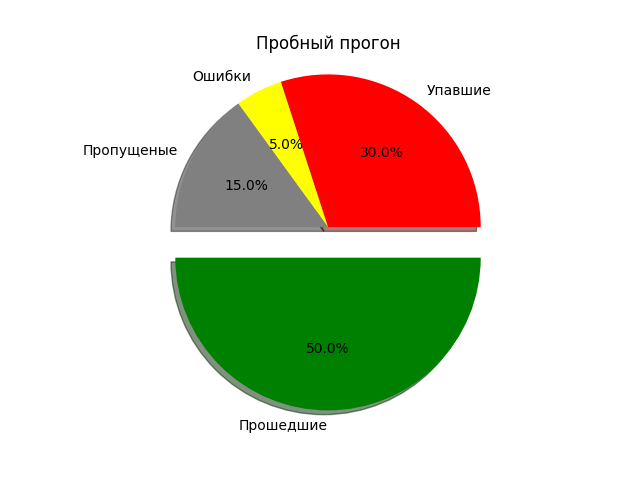
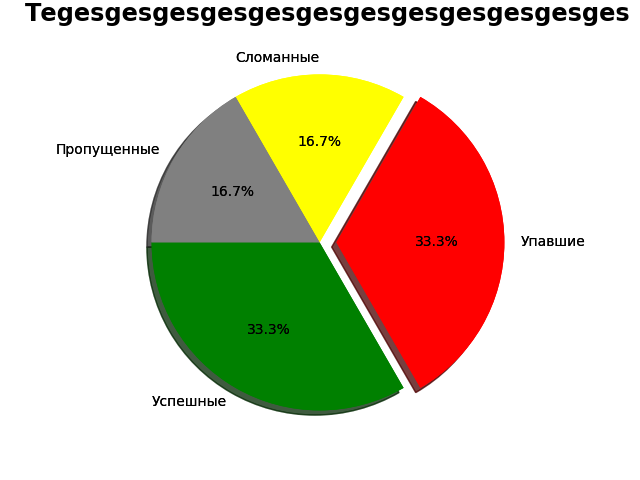
bdbdbdbr

diff --git a/allure_bot/allure_bot.py b/allure_bot/allure_bot.py
@@ -1,9 +1,10 @@
-import telebot
-from telebot import apihelper
-from telebot.types import InputMediaPhoto
-from matplotlib import pyplot as plt
 import json
 import os
+
+import telebot
+from matplotlib import pyplot as plt
+from telebot import apihelper
+from telebot.types import InputMediaPhoto
 
 
 class CreateAllure:
@@ -43,11 +44,12 @@ class CreateAllure:
         self.token = self.data_config()['token']
         self.chat = self.data_config()['chat']
         self.reportLink = self.data_config()['reportLink']
-        labels = ['Прошедшие', 'Упавшие', 'Ошибки', 'Пропущеные']
+        self.environment = self.data_config()['environment']
+        labels = ['Успешные', 'Упавшие', 'Сломанные', 'Пропущенные']
         values = [self.passed, self.failed, self.broken, self.skipped]
         colors = ['green', 'red', 'yellow', 'grey']
-        explode = [0.2, 0, 0, 0]
-        plt.title(f'{self.name}')
+        explode = [0.0, 0.1, 0.0, 0.0]
+        plt.title(f'{self.name}\n', fontdict={'fontweight': 600, 'fontsize': 'xx-large'})
         plt.pie(values, labels=labels, colors=colors, explode=explode, shadow=True, autopct='%1.1f%%', startangle=180)
         plt.axis('equal')
         return plt.savefig('allure_bot/allure.png')
@@ -57,27 +59,31 @@ class CreateAllure:
             self.create_data()
             bot = telebot.TeleBot(f'{self.token}')
             bot.send_media_group(f'{self.chat}', [InputMediaPhoto(open('allure_bot/allure.png', 'rb'),
-                                                                  caption=f'Рабочее окружение: Удаленный интерфейс ПО SignalGSM'
+                                                                  parse_mode='HTML',
+                                                                  caption=f'<b>Рабочее окружение:</b> {self.environment}'
                                                                           f'\n'
-                                                                          f'\nВсего тестов: {self.total}'
-                                                                          f'\nУспешных тестов: {self.passed}'
-                                                                          f'\nУпавших тестов: {self.failed}'
-                                                                          f'\nНеисправных тестов: {self.broken}'
-                                                                          f'\nПропущенных тестов: {self.skipped}'
-                                                                          f'\nОтчет: {self.reportLink}')])
+                                                                          f'\n<b>Всего тестов:</b> {self.total}'
+                                                                          f'\n<b>Успешных тестов:</b> {self.passed}'
+                                                                          f'\n<b>Упавших тестов:</b> {self.failed}'
+                                                                          f'\n<b>Неисправных тестов:</b> {self.broken}'
+                                                                          f'\n<b>Пропущенных тестов:</b> {self.skipped}'
+                                                                          f'\n'
+                                                                          f'\n<b>Отчет:</b> {self.reportLink}')])
         except:
             self.create_data()
             apihelper.proxy = {'https': f'{self.proxy}'}
             bot = telebot.TeleBot(f'{self.token}')
             bot.send_media_group(f'{self.chat}', [InputMediaPhoto(open('allure_bot/allure.png', 'rb'),
-                                                                  caption=f'Рабочее окружение: Удаленный интерфейс ПО SignalGSM'
+                                                                  parse_mode='HTML',
+                                                                  caption=f'<b>Рабочее окружение:</b> {self.environment}'
                                                                           f'\n'
-                                                                          f'\nВсего тестов: {self.total}'
-                                                                          f'\nУспешных тестов: {self.passed}'
-                                                                          f'\nУпавших тестов: {self.failed}'
-                                                                          f'\nНеисправных тестов: {self.broken}'
-                                                                          f'\nПропущенных тестов: {self.skipped}'
-                                                                          f'\nОтчет: http://194.67.118.210:8080/job/Signal_ui/allure/#behaviors')])
+                                                                          f'\n<b>Всего тестов:</b> {self.total}'
+                                                                          f'\n<b>Успешных тестов:</b> {self.passed}'
+                                                                          f'\n<b>Упавших тестов:</b> {self.failed}'
+                                                                          f'\n<b>Неисправных тестов:</b> {self.broken}'
+                                                                          f'\n<b>Пропущенных тестов:</b> {self.skipped}'
+                                                                          f'\n'
+                                                                          f'\n<b>Отчет:</b> {self.reportLink}')])
 
 
 messege = CreateAllure()
